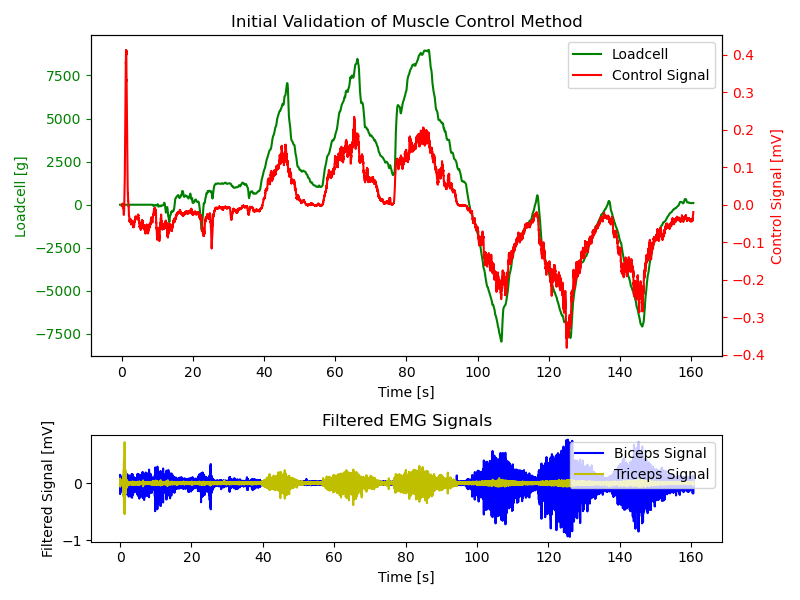
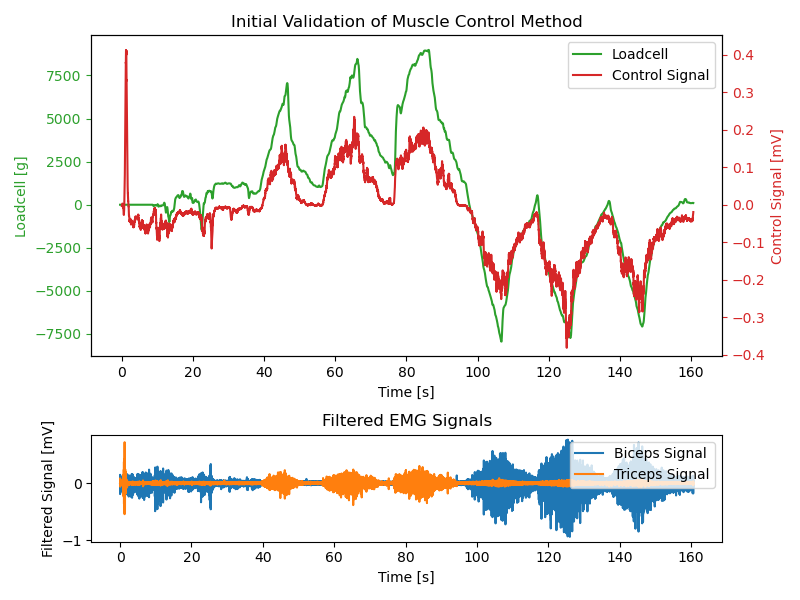
Did things

diff --git a/freqplot.py b/freqplot.py
@@ -1,0 +1,118 @@
+import matplotlib.pyplot as plt
+from libraries import loadData, emg_signal
+import librosa
+
+signal = emg_signal.Signal()
+
+shimmerBiceps = loadData.loadShimmer(n=1)
+shimmerTriceps = loadData.loadShimmer(n=0)
+
+signal.set_signal(shimmerBiceps[:, 1], shimmerBiceps[:, 2])
+filtered_biceps = signal.get_filtered_signals()
+filtered_biceps = filtered_biceps[0]
+biceps_time = shimmerBiceps[:, 0]
+biceps_mask = (biceps_time >= 12) & (biceps_time <= 21)
+filtered_biceps = filtered_biceps[biceps_mask]
+raw_biceps = signal.raw_signals[0, biceps_mask]
+biceps_time = biceps_time[biceps_mask]
+biceps_time -= biceps_time[0]
+
+signal.set_signal(shimmerTriceps[:, 1], shimmerTriceps[:, 2])
+filtered_triceps = signal.get_filtered_signals()
+filtered_triceps = filtered_triceps[1]
+triceps_time = shimmerTriceps[:, 0]
+triceps_mask = (triceps_time >= 14) & (triceps_time <= 23)
+filtered_triceps = filtered_triceps[triceps_mask]
+raw_triceps = signal.raw_signals[1, triceps_mask]
+triceps_time = triceps_time[triceps_mask]
+triceps_time -= triceps_time[0]
+
+# Plot
+# Make 2 subplots of the 2 sensors from shimmer
+""" plt.figure(figsize=(14, 5))
+plt.style.use('seaborn-v0_8-paper')
+plt.subplot(2, 1, 1)
+plt.plot(biceps_time, raw_biceps, color='tab:blue')
+plt.title('Measureing Biceps Data') 
+plt.xlabel('Time [s]')
+plt.ylabel('Value [mV]')
+plt.subplot(2, 1, 2)
+plt.plot(triceps_time, raw_triceps, color='tab:orange')
+plt.title('Measureing Triceps Data')
+plt.xlabel('Time [s]')
+plt.ylabel('Value [mV]')
+plt.tight_layout()
+plt.savefig('shimmerSignal.png')
+plt.show() """
+
+# Make mel spectogram
+fig, axs = plt.subplots(nrows=2, ncols=2, figsize=(12, 6), gridspec_kw={'height_ratios': [2, 1]})
+plt.style.use('seaborn-v0_8-paper')
+fig.suptitle('Frequencies of Raw Signals')
+
+# Unfiltered signal bicep
+ax = axs[0, 0]
+X = librosa.stft(raw_biceps, n_fft=256)
+Xdb = librosa.amplitude_to_db(abs(X))
+librosa.display.specshow(Xdb, sr=650, x_axis='time', y_axis='hz', ax=ax)
+ax.set_xlabel('Time [s]')
+ax.set_title('Biceps - Unfiltered')
+
+ax = axs[1, 0]
+ax.plot(biceps_time, raw_biceps)
+ax.set_xlabel('Time [s]')
+ax.set_ylabel('Value [mV]')
+
+# Unfiltered signal tricep
+ax = axs[0, 1]
+X = librosa.stft(raw_triceps, n_fft=256)
+Xdb = librosa.amplitude_to_db(abs(X))
+librosa.display.specshow(Xdb, sr=650, x_axis='time', y_axis='hz', ax=ax)
+ax.set_xlabel('Time [s]')
+ax.set_title('Triceps - Unfiltered')
+
+ax = axs[1, 1]
+ax.plot(triceps_time, raw_triceps)
+ax.set_xlabel('Time [s]')
+ax.set_ylabel('Value [mV]')
+
+fig.tight_layout()
+
+plt.savefig('shimmerSignal.png') 
+plt.show()
+
+
+fig, axs = plt.subplots(nrows=2, ncols=2, figsize=(12, 6), gridspec_kw={'height_ratios': [2, 1]})
+plt.style.use('seaborn-v0_8-paper')
+fig.suptitle('Frequencies of Filtered Signals')
+
+# Filtered signal bicep
+ax = axs[0, 0]
+X = librosa.stft(filtered_biceps, n_fft=256)
+Xdb = librosa.amplitude_to_db(abs(X))
+librosa.display.specshow(Xdb, sr=650, x_axis='time', y_axis='hz', ax=ax)
+ax.set_xlabel('Time [s]')
+ax.set_title('Biceps - Filtered')
+
+ax = axs[1, 0]
+ax.plot(biceps_time, filtered_biceps)
+ax.set_xlabel('Time [s]')
+ax.set_ylabel('Value [mV]')
+
+# Filtered signal tricep
+ax = axs[0, 1]
+X = librosa.stft(filtered_triceps, n_fft=256)
+Xdb = librosa.amplitude_to_db(abs(X))
+librosa.display.specshow(Xdb, sr=650, x_axis='time', y_axis='hz', ax=ax)
+ax.set_xlabel('Time [s]')
+ax.set_title('Triceps - Filtered')
+
+ax = axs[1, 1]
+ax.plot(triceps_time, filtered_triceps)
+ax.set_xlabel('Time [s]')
+ax.set_ylabel('Value [mV]')
+
+fig.tight_layout()
+
+plt.savefig('melSpectogramFiltVsNonfilt.png') 
+plt.show()

diff --git a/loadcellPlot.py b/loadcellPlot.py
@@ -15,15 +15,15 @@ ax1 = axs[0]
 ax2 = ax1.twinx()
 ax3 = axs[1]
 
-loadcell_line, = ax1.plot(loadcellData[:, 0], -loadcellData[:, 1], 'g', label='Loadcell')
-control_signal_line, = ax2.plot(shimmerData[:, 0], control_signal, 'r', label='Control Signal')
+loadcell_line, = ax1.plot(loadcellData[:, 0], -loadcellData[:, 1], 'tab:green', label='Loadcell')
+control_signal_line, = ax2.plot(shimmerData[:, 0], control_signal, 'tab:red', label='Control Signal')
 
 ax1.set_xlabel('Time [s]')
-ax1.set_ylabel('Loadcell [g]', color='g')
-ax2.set_ylabel('Control Signal [mV]', color='r')
+ax1.set_ylabel('Loadcell [g]', color='tab:green')
+ax2.set_ylabel('Control Signal [mV]', color='tab:red')
 
-ax1.tick_params(axis='y', colors='g')
-ax2.tick_params(axis='y', colors='r')
+ax1.tick_params(axis='y', colors='tab:green')
+ax2.tick_params(axis='y', colors='tab:red')
 
 ax1.legend(handles=[loadcell_line, control_signal_line])
 
@@ -37,8 +37,8 @@ scalefactor = min(scalefactor_min, scalefactor_max)
 # Scale ax2
 ax2.set_ylim(ax1_ylim[0] * scalefactor, ax1_ylim[1] * scalefactor)
 
-ax3.plot(shimmerData[:, 0], filtered_signals[0], 'b', label='Biceps Signal')
-ax3.plot(shimmerData[:, 0], filtered_signals[1], 'y', label='Triceps Signal')
+ax3.plot(shimmerData[:, 0], filtered_signals[0], 'tab:blue', label='Biceps Signal')
+ax3.plot(shimmerData[:, 0], filtered_signals[1], 'tab:orange', label='Triceps Signal')
 ax3.set_xlabel('Time [s]')
 ax3.set_ylabel('Filtered Signal [mV]')
 ax3.legend(loc='upper right')
